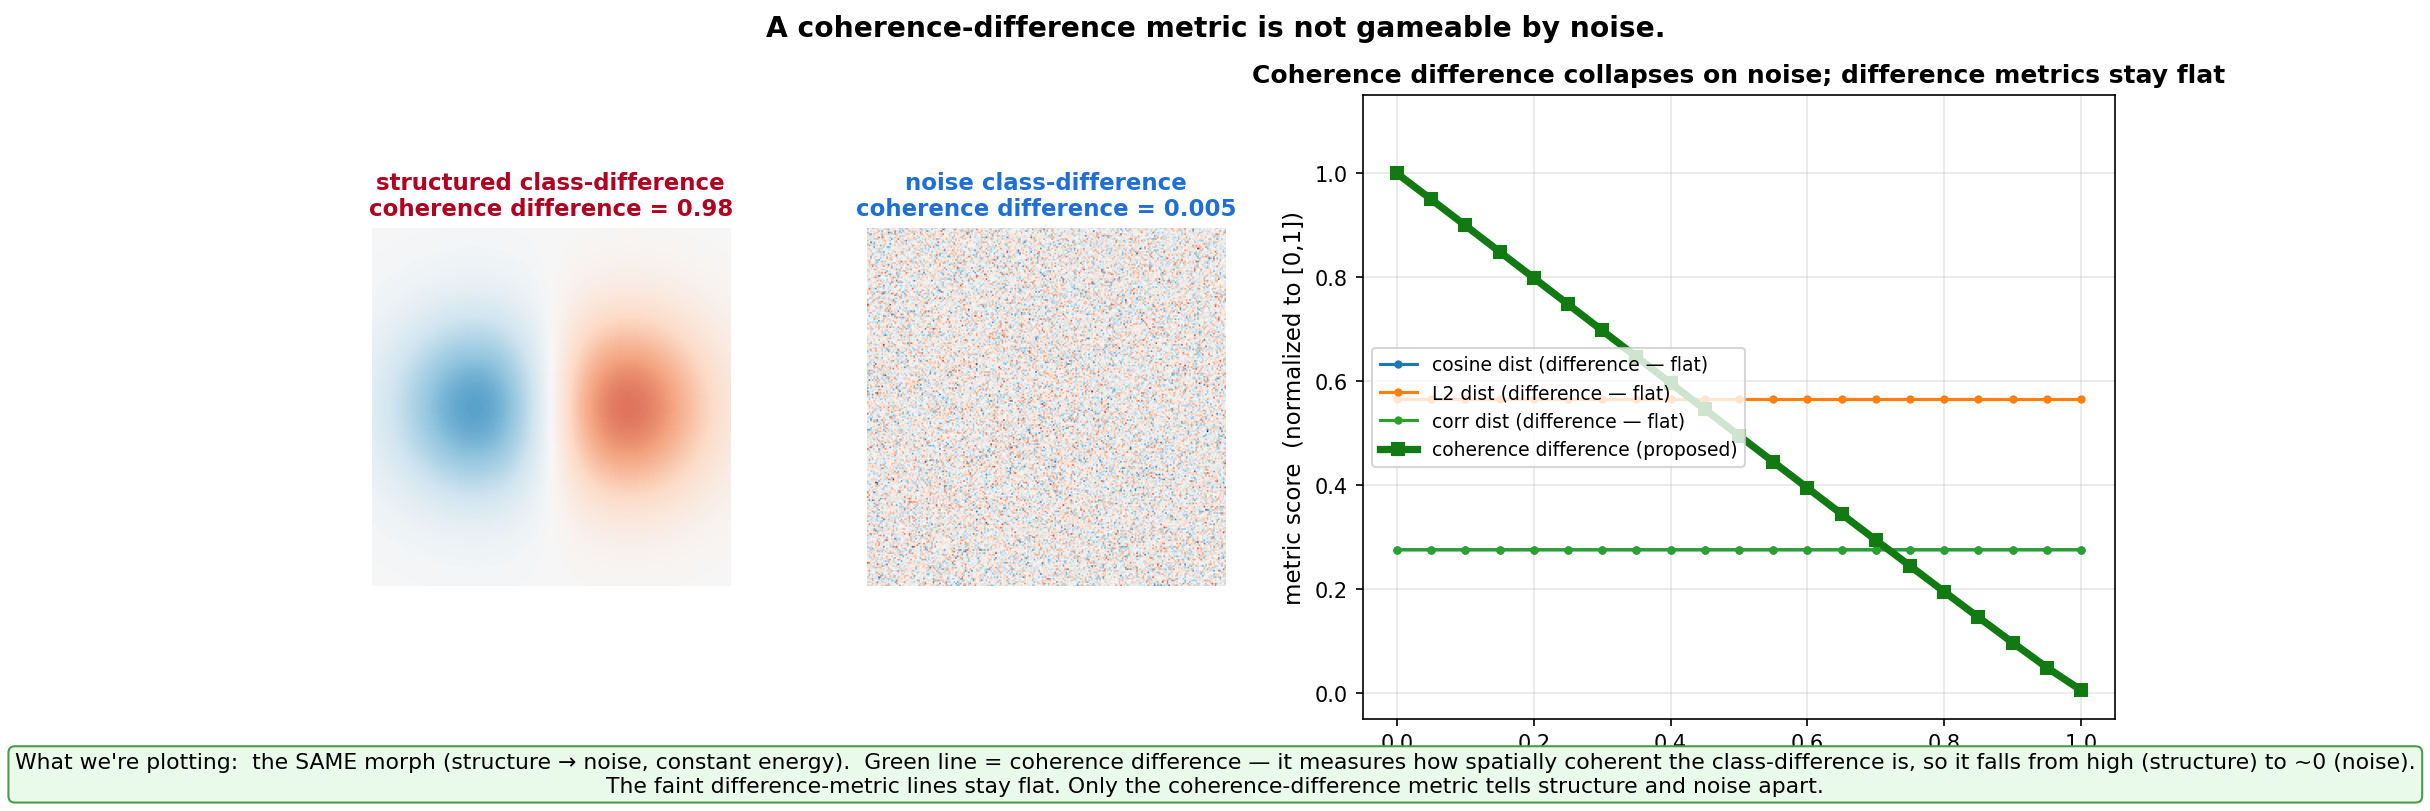
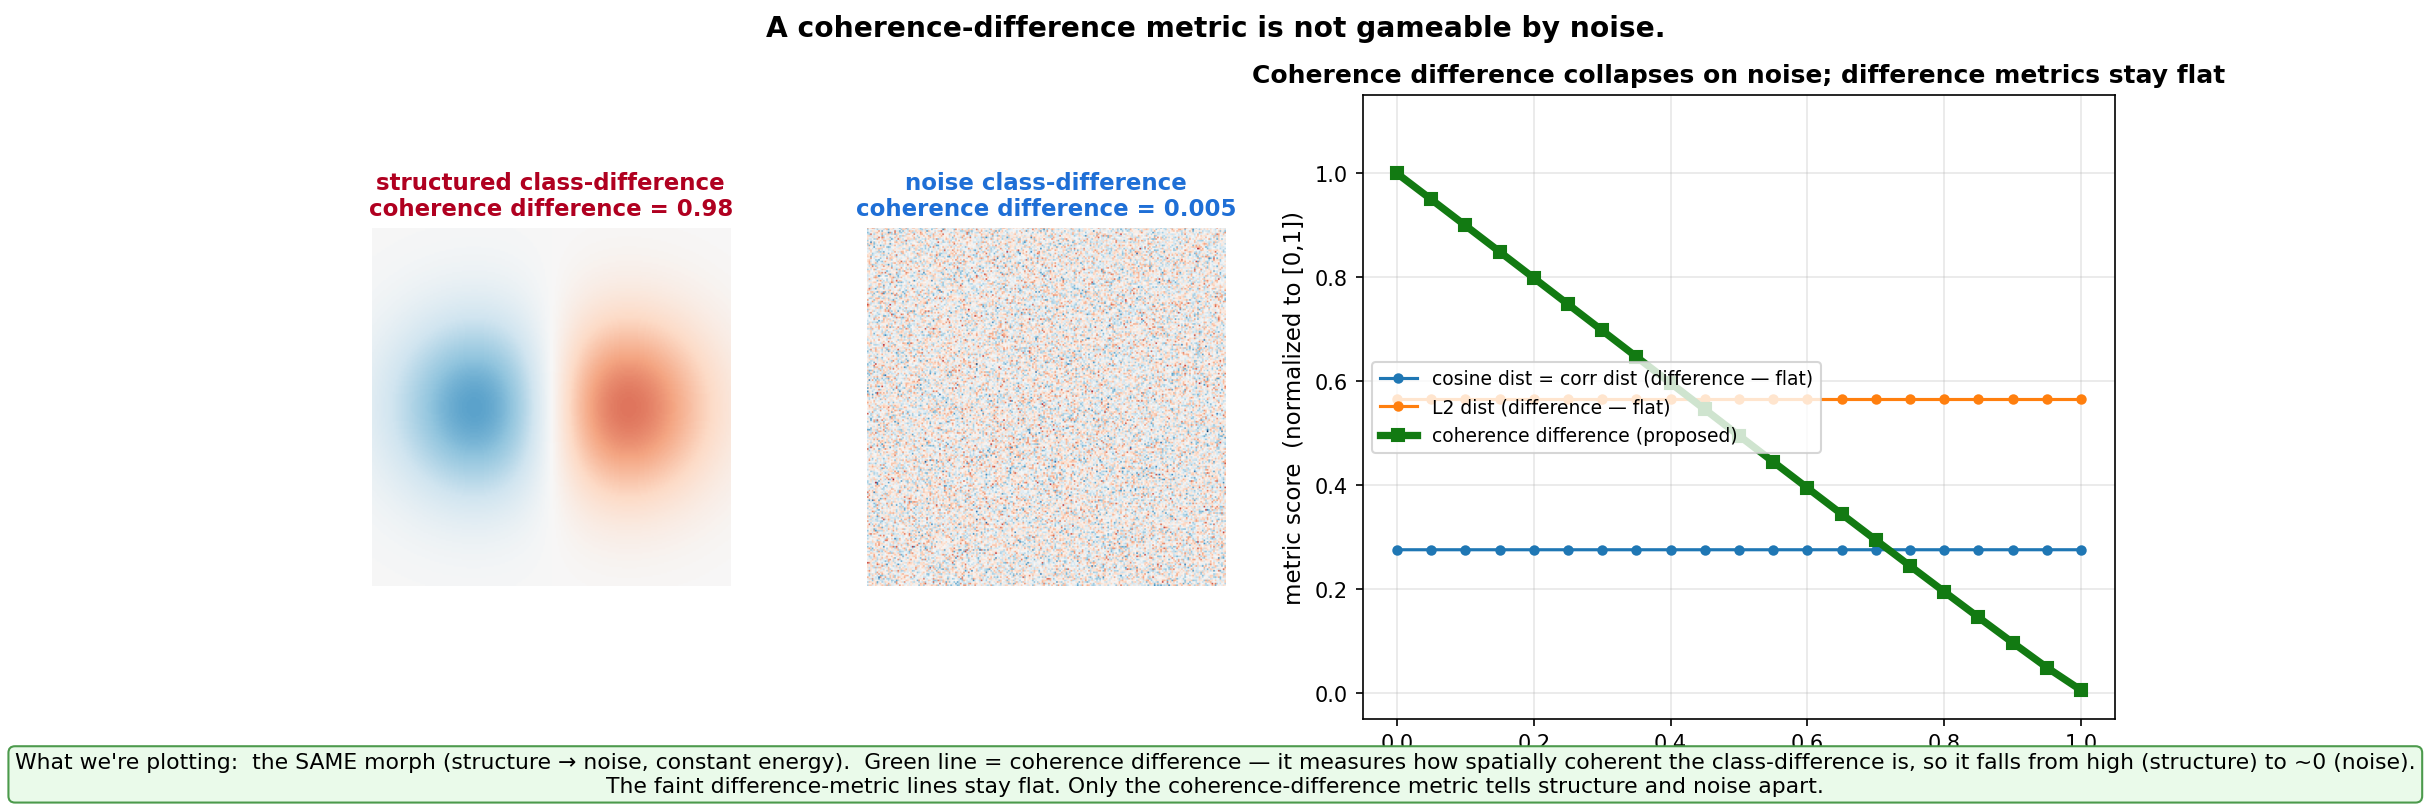
Merge coincident difference-metric lines (cosine == corr) so none is hidden
Label the shared line "cosine dist = corr dist" in both figures.

Changed region(s): [[0.5556, 0.4316, 0.7716, 0.5857], [0.5864, 0.6473, 0.8642, 0.709]]

diff --git a/infocube-main/diff_metric_blindness.py b/infocube-main/diff_metric_blindness.py
@@ -69,6 +69,19 @@ coh_curve = np.array(coh_curve)
 rp = {k: float(np.mean([fn(unit(np.random.randn(H,W)), unit(np.random.randn(H,W))) for _ in range(40)])) for k,fn in DIFF.items()}
 print('random-pair calibration (unrelated maps):', {k: round(v,3) for k,v in rp.items()})
 
+cmap = plt.get_cmap('tab10')
+def plot_diff(ax, suffix=''):
+    """Plot each difference metric ÷ its random baseline, MERGING curves that coincide
+    (e.g. cosine == corr for zero-mean maps) into one labelled line so none is hidden."""
+    plotted = []
+    for k, v in curves.items():
+        y = np.array(v)/(rp[k]+EPS)
+        m = next((p for p in plotted if np.allclose(p[0], y, atol=2e-3)), None)
+        if m: m[2].append(k)
+        else:
+            line, = ax.plot(alphas, y, '-o', ms=4, color=cmap(len(plotted))); plotted.append([y, line, [k]])
+    for y, line, names in plotted: line.set_label(' = '.join(names) + suffix)
+
 # ── figure (difference metric ONLY — no coherence curve; the fix comes in a later section) ─
 fig = plt.figure(figsize=(15, 5.2), facecolor='white')
 gs = fig.add_gridspec(1, 3, width_ratios=[1, 1, 2.1], wspace=0.28)
@@ -80,9 +93,8 @@ axn.set_title('noise class-difference\n(identical energy)', fontsize=11, fontwei
 txt = 'SAME energy →\nSAME difference score:\n\n' + '\n'.join(f'{n:11s} {sc:.3f} = {sn:.3f}' for n,sc,sn in rows)
 axn.text(1.05, 0.5, txt, transform=axn.transAxes, va='center', ha='left', fontsize=8.5, family='monospace',
          bbox=dict(boxstyle='round', fc='#f5f5f5', ec='#999'))
-axs = fig.add_subplot(gs[2]); cmap = plt.get_cmap('tab10')
-for j, (k, v) in enumerate(curves.items()):
-    axs.plot(alphas, np.array(v)/(rp[k]+EPS), '-o', ms=3, color=cmap(j), label=k)
+axs = fig.add_subplot(gs[2])
+plot_diff(axs)
 axs.axhline(1.0, color='k', ls='--', lw=1.8, label='independent random-pair baseline')
 axs.set_xlabel('α   (0 = pure structure  →  1 = pure noise)', fontsize=11)
 axs.set_ylabel('difference score / random-pair baseline', fontsize=11); axs.set_ylim(0, 1.15)
@@ -121,8 +133,7 @@ axc2.set_title(f'structured class-difference\ncoherence difference = {cd_coh:.2f
 axn2 = fig2.add_subplot(gs2[1]); axn2.imshow(d_noise, cmap='RdBu_r', vmin=-vmax, vmax=vmax); axn2.axis('off')
 axn2.set_title(f'noise class-difference\ncoherence difference = {cd_noise:.3f}', fontsize=11, fontweight='bold', color='#1f6fd6')
 axs2 = fig2.add_subplot(gs2[2])
-for j, (k, v) in enumerate(curves.items()):                                    # difference metrics ÷ random baseline
-    axs2.plot(alphas, np.array(v)/(rp[k]+EPS), '-o', ms=3, color=cmap(j), label=f'{k} (difference — flat)')
+plot_diff(axs2, suffix=' (difference — flat)')                                  # merges coincident cosine/corr
 axs2.plot(alphas, coh_curve/(coh_curve[0]+EPS), '-s', color='#127a12', lw=3.5, ms=6, label='coherence difference (proposed)')
 axs2.set_xlabel('α   (0 = pure structure  →  1 = pure noise),  energy held CONSTANT', fontsize=11)
 axs2.set_ylabel('metric score  (normalized to [0,1])', fontsize=11); axs2.set_ylim(-0.05, 1.15)
